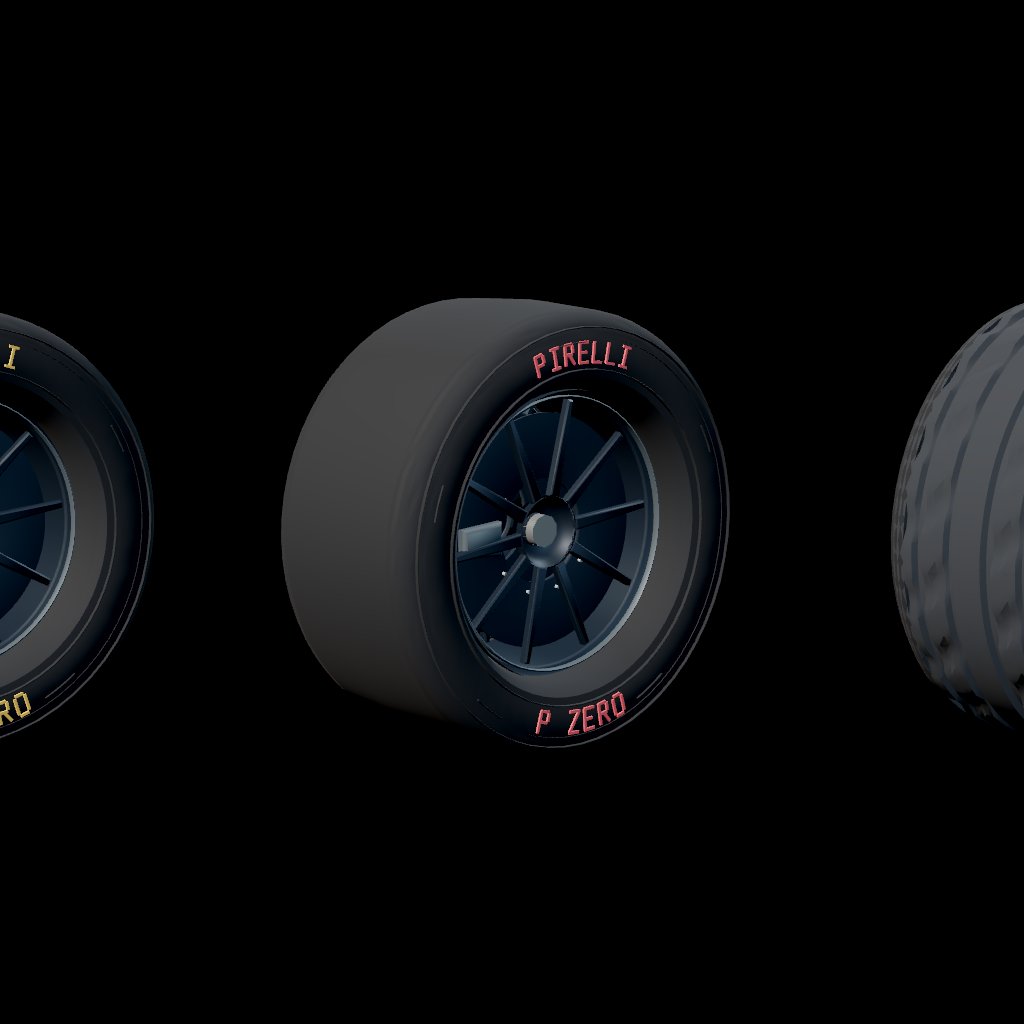
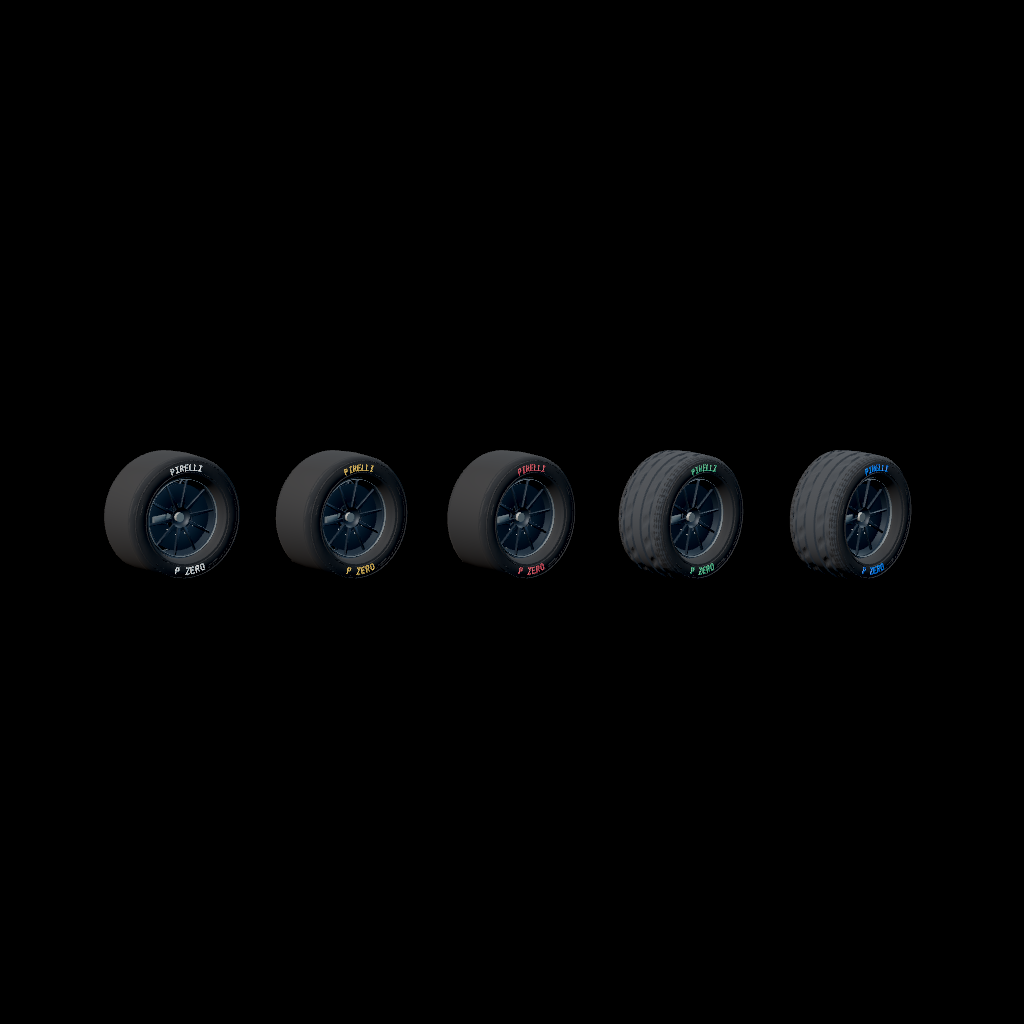
docs(f1-kit): one 25-prop sheet and a short kit README
Drop the stacked duplicate hero, show all five tyre compounds, and replace the wave changelog with the final catalog.

Changed region(s): [[0.0, 0.2812, 0.7188, 0.7188], [0.75, 0.2812, 1.0, 0.7188]]

diff --git a/registries/f1-kit/README.md b/registries/f1-kit/README.md
@@ -1,62 +1,27 @@
 # F1 Kit
 
-Procedural Formula-1 pit-lane props for real-time Three.js scenes, built
-directly on `three/webgpu`. Install one prop or bring in the complete kit,
-then work directly in your own source tree.
+25 procedural Formula 1 pit-lane and trackside props for real-time Three.js
+(`three/webgpu`). Palette, materials, and hardware live in `f1-kit-core`.
+Colours are generic defaults — no team liveries, sponsor marks, or driver
+likenesses.
 
 ```sh
-bunx vibe3d add @f1-kit/f1-tyre
 bunx vibe3d add @f1-kit
+bunx vibe3d add @f1-kit/f1-tyre
 ```
 
-Every model includes an interactive preview, portable GLB export, and the
-source needed to make it fit your world.
+`tyre-stack` and `gun-rack` compose `f1-tyre` and `f1-tyre-gun`, so recoloring
+the base prop recolors every stack or rack built from it.
 
-## Pit lane, wave one
+## Pit lane (11)
 
-Twenty-four props covering a working pit box and the trackside around it: a loose tyre; the two
-hand tools a pit crew swings during a stop (a lever jack and an impact tyre
-gun); garage dressing (a tool cabinet, a fire extinguisher, an air-hose
-reel); and pit-lane signage and structures (a blanketed tyre stack, a
-tyre-gun rack, a stop/go lollipop board, a numbered pit board, and an
-overhead gantry). Two of them — the tyre stack and the gun rack — are built
-by composing the tyre and the tyre gun, so recoloring either base
-prop recolors every stack or rack built from it.
+`f1-tyre` · `f1-tyre-stack` · `f1-tyre-gun` · `f1-gun-rack` · `f1-pit-jack` ·
+`f1-tool-cabinet` · `f1-fire-extinguisher` · `f1-hose-reel` · `f1-pit-board` ·
+`f1-lollipop-board` · `f1-pit-gantry`
 
-They share one support item rather than each carrying a private copy of the
-palette, hardware, and geometry helpers:
+## Trackside (14)
 
-```sh
-bunx vibe3d add @f1-kit/f1-tool-cabinet
-```
-
-- `@f1-kit/f1-kit-core` — the wave's palette, shared material bundle, hardware
-  vocabulary (bolts, castors, straps, pads), swept-geometry helpers, and the
-  disposal contract every prop in the kit builds on.
-
-
-## Trackside, wave two
-
-Thirteen more props for the circuit itself: catch fence, Armco, a tyre barrier
-instanced from `f1-tyre`, a TecPro stack, FIA start lights, a kerb run, a
-floodlight, a timing pylon, a brake marker, a jumbotron, a marshal post, a
-start/finish gantry, one grandstand bay, and an oranje support can (wire-pull tube + wispy smoke plume).
-
-```sh
-bunx vibe3d add @f1-kit/f1-catch-fence
-```
-
-## No real-team branding
-
-Every color in this kit is a generic default exposed as a real material
-slot — no real F1 team liveries, sponsor branding, or driver likenesses are
-baked into any prop. Recolor freely via `setMaterial()` or by passing your
-own materials into `createModel()`.
-
-## What's next
-
-Preview sheets on vibe-stack/vibe3d#7 are SHA-pinned to `a4f9c75f64138c25913d1faf609f075d0740444d` (`docs/assets/f1-kit-previews/f1-kit.png`).
-
-The assembled car itself — chassis, wings, halo, cockpit, and a paintable
-livery system — is a separate, later addition to this kit, once every
-standalone pit-lane prop has landed.
+`f1-catch-fence` · `f1-armco` · `f1-tyre-barrier` · `f1-tecpro` ·
+`f1-start-lights` · `f1-kerb` · `f1-floodlight` · `f1-timing-pylon` ·
+`f1-brake-marker` · `f1-jumbotron` · `f1-marshal-post` · `f1-start-gantry` ·
+`f1-grandstand-bay` · `f1-oranje-can`
